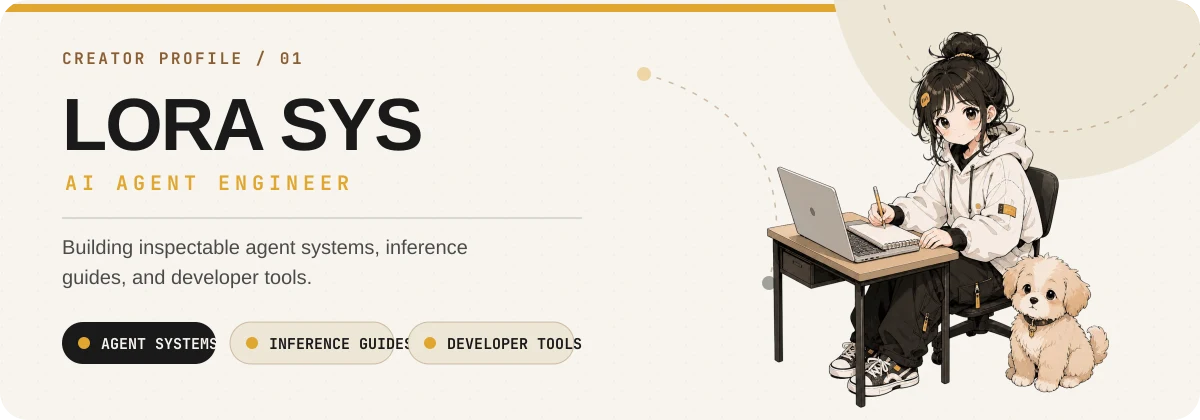
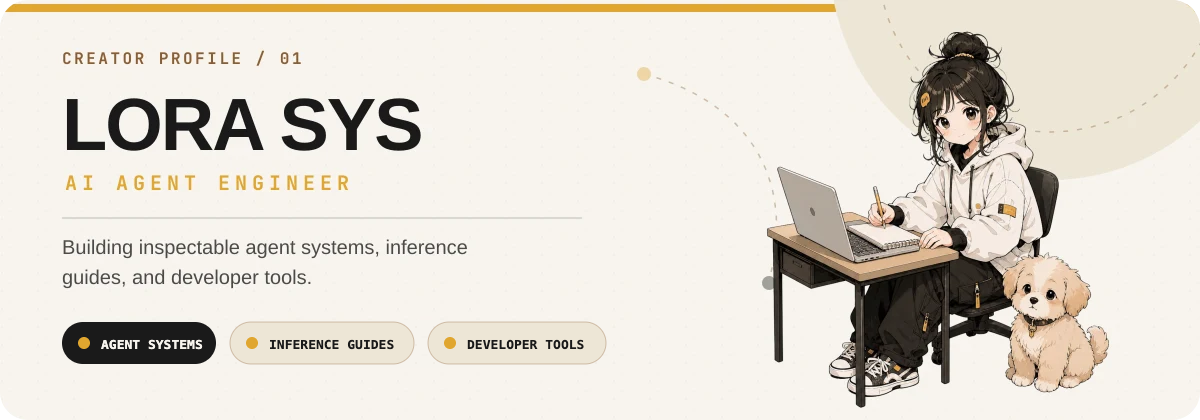
fix(profile): fit hero topic labels within their pills (#10)

Changed region(s): [[0.2158, 0.7429, 0.4933, 0.8667], [0.0617, 0.8048, 0.185, 0.8357], [0.4625, 0.7429, 0.4933, 0.7738]]

diff --git a/scripts/build_assets.py b/scripts/build_assets.py
@@ -113,7 +113,7 @@ def build():
  banner=ROOT/'assets/readme/hero.webp'
  data=banner.read_bytes()
  art_records={'banner':{'source':'assets/readme/hero.webp','sha256':hashlib.sha256(data).hexdigest()}}
[2 lines of base64/hex data omitted]
  for theme in PALETTES:
   path=ROOT/'dist'/f'snake-{theme}.svg'
   svg=path.read_text().replace('</svg>','<style>@media(prefers-reduced-motion:reduce){*{animation:none!important}}</style></svg>')

diff --git a/docs/maintenance.md b/docs/maintenance.md
@@ -2,7 +2,7 @@
 
 ## 已确认的设计
 
-保留原文件 `assets/readme/hero.webp`。构建检查它的 SHA-256，避免在后续排版中误换原 banner。
+使用已确认的 `assets/readme/hero.webp`。底部标签已修正字体大小、胶囊宽度和间距；修改仅发生在标签区域，插画和其余排版保持原像素。构建检查它的 SHA-256，避免在后续排版中误换原 banner。
 
 首屏是原 banner，下面依次是身份一行、导航一行、三个纯文本小节（做过的 / 写过的 / 数据和贡献）和页尾。数据区保留 GitHub 总览、语言分布两张卡和贡献贪吃蛇。打字 banner、项目图文卡、技术图标、文章卡、PR 卡与无图文字目录都已移除，内容改由 Markdown 正文承担，正文必须保持可选中、可搜索。
 
